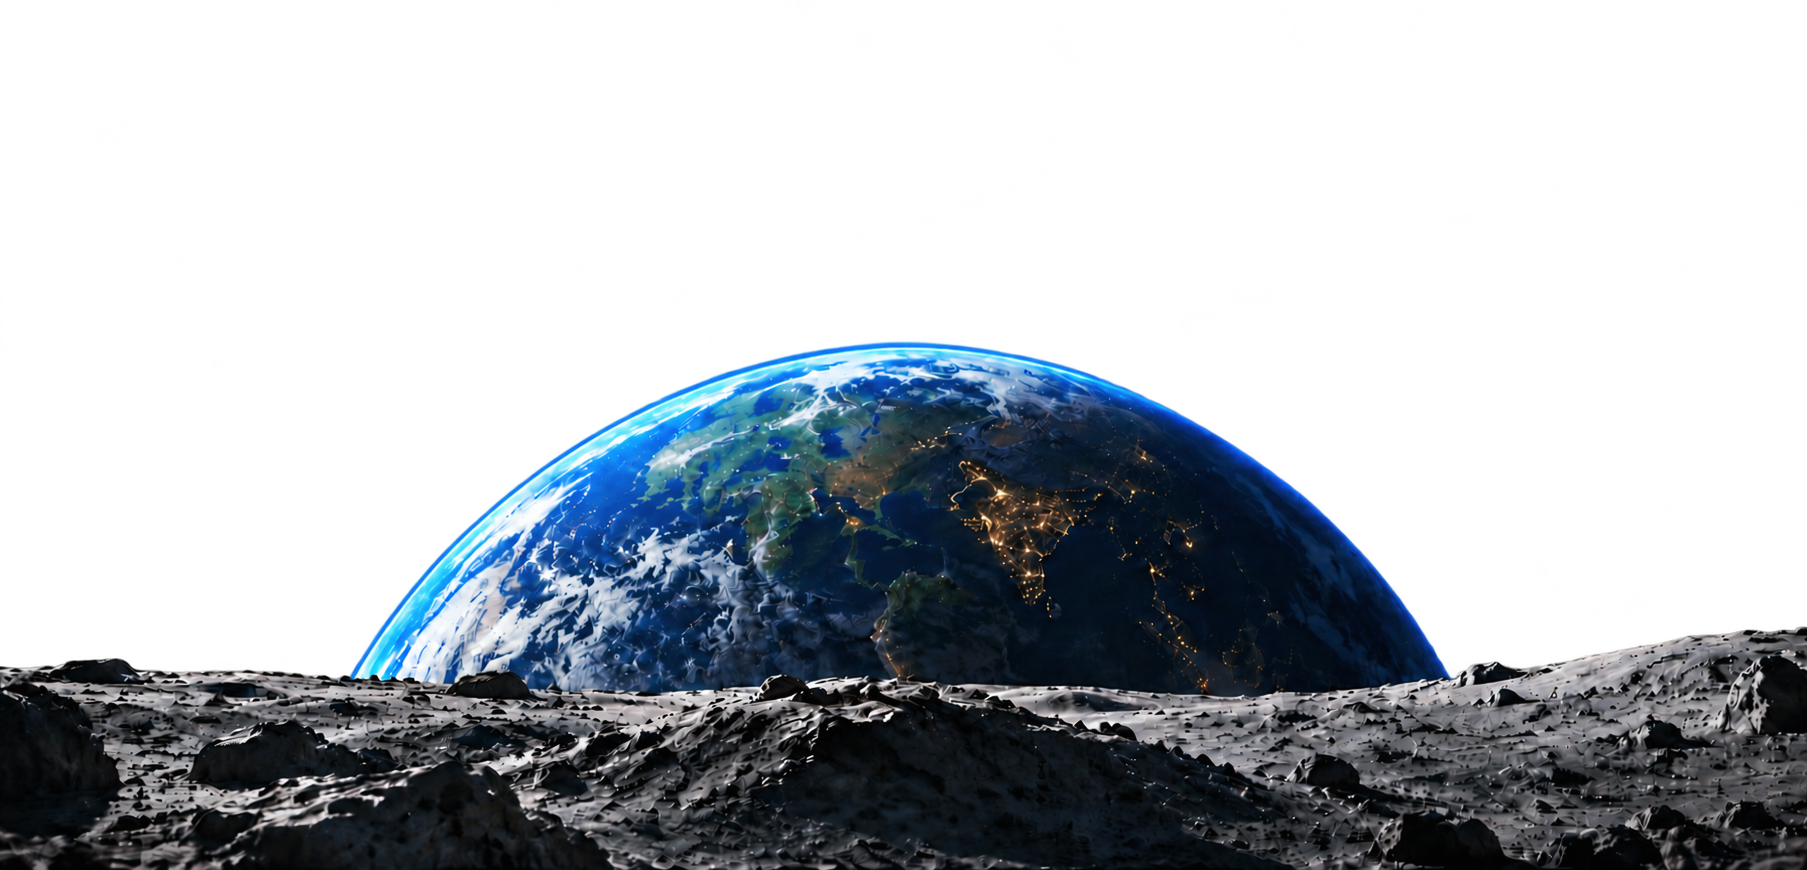
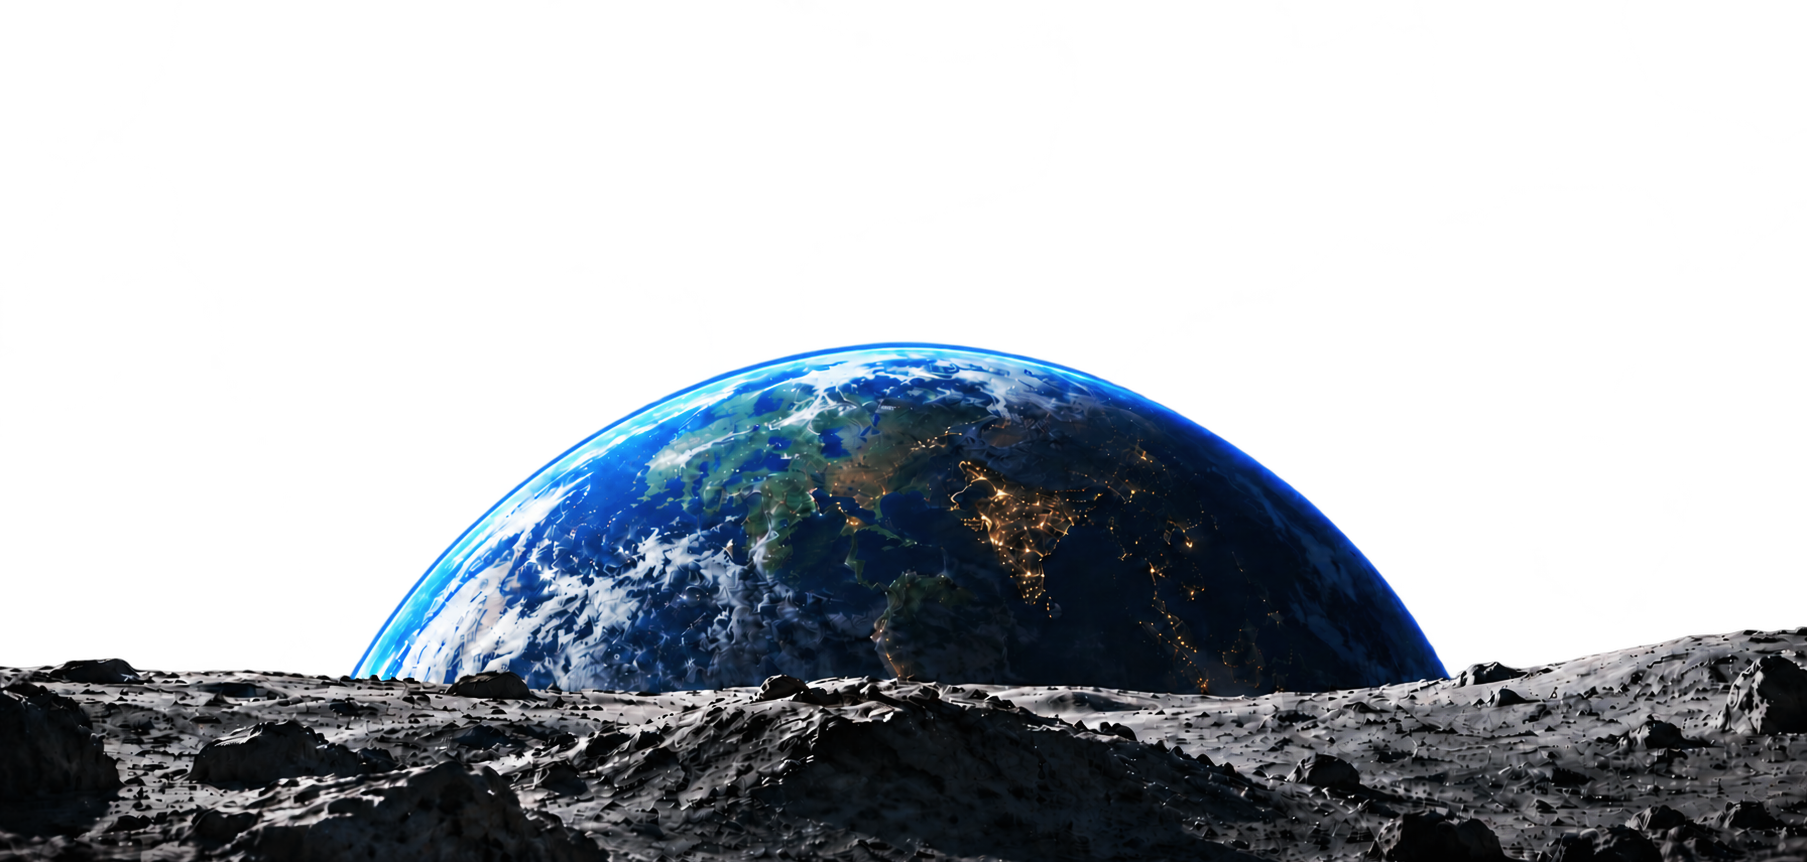
Iteratively recalibrated deliverable

Changed region(s): [[0.0, 0.3921, 1.0, 1.0], [0.6198, 0.9954, 0.6508, 1.0], [0.6198, 0.6937, 0.6508, 0.7239]]

diff --git a/frontend/src/app/page.tsx b/frontend/src/app/page.tsx
@@ -238,39 +238,6 @@ export default function LiveMonitoringPage() {
   return (
     <div className="flex flex-col gap-6 animate-in fade-in duration-500">
       
-      {/* Simulation / Selected Cyclone Banner */}
-      {activeSystem && (
-        <div className="p-3.5 px-4 rounded-xl bg-emerald-500/10 border border-emerald-500/30 flex items-center justify-between text-xs text-emerald-200 shadow-md">
-          <div className="flex items-center gap-2.5">
-            <span className="w-2 h-2 rounded-full bg-emerald-400 animate-ping" />
-            <span className="font-semibold text-emerald-300 uppercase tracking-wider text-[11px]">Active Focus:</span>
-            <span>Displaying <strong>Cyclone {activeSystem.name}</strong> ({activeSystem.id}) • Synced across all tabs.</span>
-          </div>
-          <div className="flex items-center gap-2">
-            <a
-              href={`/forecast?cyclone_id=${encodeURIComponent(activeSystem.id)}`}
-              className="flex items-center gap-1.5 px-3 py-1 rounded-lg bg-emerald-500/20 hover:bg-emerald-500/30 border border-emerald-500/30 text-emerald-200 transition-colors font-medium text-xs cursor-pointer"
-            >
-              <Activity className="w-3.5 h-3.5" />
-              Track Forecast
-            </a>
-            <button
-              onClick={() => {
-                if (typeof window !== "undefined") {
-                  window.history.replaceState({}, '', '/');
-                }
-                clearSelectedCyclone();
-                fetchActiveSystems(false);
-              }}
-              className="flex items-center gap-1.5 px-3 py-1 rounded-lg bg-white/10 hover:bg-white/15 border border-white/15 text-zinc-300 transition-colors font-medium text-xs cursor-pointer"
-            >
-              <RotateCcw className="w-3.5 h-3.5" />
-              Reset to Live
-            </button>
-          </div>
-        </div>
-      )}
-
       {/* Live Ingestion Feed Bar */}
       <div className="p-3 px-4 rounded-xl bg-surface-glass border border-border backdrop-blur-md flex flex-wrap items-center justify-between gap-3 text-xs shadow-xs">
         <div className="flex items-center gap-3">
@@ -297,28 +264,6 @@ export default function LiveMonitoringPage() {
         </div>
 
         <div className="flex items-center gap-2">
-          {activeSystem && activeSystem.id.startsWith("LIVE-IMD-") ? (
-            <button
-              onClick={handleClearLiveTest}
-              disabled={isSyncingIngest}
-              className="flex items-center gap-1.5 px-3 py-1.5 rounded-lg bg-secondary hover:bg-secondary/80 border border-border text-foreground text-xs font-semibold transition-all disabled:opacity-50 cursor-pointer hover:scale-105 active:scale-95 shadow-xs"
-              title="Clear injected live detection test and return to real calm feeds"
-            >
-              <RotateCcw className="w-3.5 h-3.5" />
-              <span>Clear Test Detection</span>
-            </button>
-          ) : (
-            <button
-              onClick={handleTestInject}
-              disabled={isSyncingIngest}
-              className="flex items-center gap-1.5 px-3 py-1.5 rounded-lg bg-amber-500/10 hover:bg-amber-500/20 border border-amber-500/30 text-amber-600 dark:text-amber-400 text-xs font-semibold transition-all disabled:opacity-50 cursor-pointer hover:scale-105 active:scale-95 shadow-xs"
-              title="Test real-time detection by injecting a simulated new live cyclone (Cyclone Shakti)"
-            >
-              <Play className="w-3.5 h-3.5 fill-amber-500 dark:fill-amber-400" />
-              <span>Test Live Detection</span>
-            </button>
-          )}
-
           <button
             onClick={handleSyncFeeds}
             disabled={isSyncingIngest}

diff --git a/frontend/src/components/Sidebar.tsx b/frontend/src/components/Sidebar.tsx
@@ -3,7 +3,7 @@
 import React from "react";
 import Link from "next/link";
 import { usePathname } from "next/navigation";
-import { Activity, UploadCloud, History, FileText, Settings, Wind, Rocket, Layers } from "lucide-react";
+import { Activity, UploadCloud, History, FileText, Settings, Wind, LogOut } from "lucide-react";
 import { clsx, type ClassValue } from "clsx";
 import { twMerge } from "tailwind-merge";
 import { CycloneLogo } from "@/components/CycloneLogo";
@@ -14,7 +14,6 @@ function cn(...inputs: ClassValue[]) {
 
 const navItems = [
   { name: "Live Monitoring", href: "/", icon: Activity },
-  { name: "Landing Page", href: "/landing-parallax", icon: Rocket },
   { name: "Classification", href: "/classification", icon: UploadCloud },
   { name: "Historical Archive", href: "/archive", icon: History },
   { name: "Track Forecast", href: "/forecast", icon: Wind },
@@ -36,7 +35,7 @@ export function Sidebar() {
         </span>
       </Link>
 
-      <nav className="flex-1 px-4 py-6 space-y-1 overflow-y-auto scrollbar-hide">
+      <nav className="flex-1 px-4 py-4 space-y-1 overflow-y-auto scrollbar-hide">
         {navItems.map((item) => {
           const isActive = pathname === item.href;
           const Icon = item.icon;
@@ -64,10 +63,42 @@ export function Sidebar() {
         })}
       </nav>
 
-      <div className="p-4 border-t border-border">
-        <div className="glass-card p-4 flex flex-col gap-1.5">
-          <p className="text-xs font-semibold text-slate-800 dark:text-zinc-300 uppercase tracking-wider">MoES Prototype</p>
-          <p className="text-xs text-slate-600 dark:text-muted-foreground font-medium">Version 1.0 - SIH26070</p>
+      {/* Officer Profile & Logout Bottom Bar (directs to landing page) */}
+      <div className="p-3 border-t border-border mt-auto">
+        <div className="flex items-center justify-between p-2 rounded-xl bg-slate-900/[0.03] dark:bg-white/[0.03] hover:bg-slate-900/[0.06] dark:hover:bg-white/[0.06] transition-colors">
+          <div className="flex items-center gap-3 min-w-0">
+            <div className="w-9 h-9 rounded-full bg-gradient-to-tr from-indigo-600 to-violet-500 text-white font-bold text-xs flex items-center justify-center shadow-xs shrink-0 ring-2 ring-indigo-500/20">
+              OF
+            </div>
+            <div className="flex flex-col min-w-0">
+              <span className="text-xs sm:text-sm font-bold text-slate-900 dark:text-white truncate leading-tight">
+                Officer
+              </span>
+              <span className="text-[10px] font-semibold text-slate-500 dark:text-zinc-400 uppercase tracking-wider truncate mt-0.5">
+                INVESTIGATOR
+              </span>
+            </div>
+          </div>
+
+          <div className="flex items-center gap-1 shrink-0 ml-2">
+            <Link
+              href="/settings"
+              className="p-1.5 rounded-lg text-slate-500 hover:text-slate-900 dark:text-zinc-400 dark:hover:text-white hover:bg-slate-900/10 dark:hover:bg-white/10 transition-colors"
+              title="Settings"
+              aria-label="Settings"
+            >
+              <Settings className="w-4 h-4" />
+            </Link>
+            
+            <Link
+              href="/landing-parallax"
+              className="p-1.5 rounded-lg text-slate-500 hover:text-rose-600 dark:text-zinc-400 dark:hover:text-rose-400 hover:bg-rose-500/10 transition-colors"
+              title="Logout to Landing Page"
+              aria-label="Logout to Landing Page"
+            >
+              <LogOut className="w-4 h-4" />
+            </Link>
+          </div>
         </div>
       </div>
     </aside>

diff --git a/frontend/src/components/landing/Navbar.tsx b/frontend/src/components/landing/Navbar.tsx
@@ -46,12 +46,12 @@ export function Navbar() {
             : "bg-transparent border-b border-transparent"
           }`}
       >
-        <div className="max-w-[1440px] mx-auto px-6 h-full flex items-center justify-between">
+        <div className="max-w-[1440px] mx-auto px-6 h-full flex items-center justify-between gap-6 xl:gap-10">
 
           {/* Logo & Meteorological Wordmark */}
-          <Link href="/" className="flex items-center gap-3 group">
+          <Link href="/" className="flex items-center gap-3 group shrink-0">
             <div className="relative flex items-center justify-center">
-              <CycloneLogo size={30} className="group-hover:rotate-45 transition-transform duration-500" />
+              <CycloneLogo size={30} />
             </div>
             <div className="flex flex-col">
               <span className={`font-heading font-extrabold text-xl tracking-tight leading-none transition-colors ${isScrolledPast
@@ -67,15 +67,15 @@ export function Navbar() {
             </div>
           </Link>
 
-          {/* Center Nav Links */}
-          <nav className="hidden lg:flex items-center gap-2">
+          {/* Center Nav Links - Proportionately balanced between logo and action buttons */}
+          <nav className="hidden lg:flex items-center justify-center gap-1 xl:gap-2 flex-1 px-4">
             {NAV_ITEMS.map((item) => (
               <Link
                 key={item.name}
                 href={item.href}
                 onMouseEnter={() => setActiveItem(item.name)}
                 onMouseLeave={() => setActiveItem(null)}
-                className={`relative px-4 py-2 text-xs font-semibold transition-colors rounded-full ${isScrolledPast
+                className={`relative px-3.5 py-1.5 text-xs font-semibold tracking-wide transition-colors rounded-full whitespace-nowrap ${isScrolledPast
                     ? "text-text-muted hover:text-text-primary"
                     : "text-slate-300 hover:text-white"
                   }`}
@@ -89,7 +89,7 @@ export function Navbar() {
           </nav>
 
           {/* Right Action Buttons */}
-          <div className="hidden md:flex items-center gap-3">
+          <div className="hidden md:flex items-center gap-3 shrink-0">
             {/* Ask CycloNet AI Lime-Green Button matching Dashboard */}
             <button
               onClick={() => {
@@ -104,7 +104,7 @@ export function Navbar() {
               aria-label="Ask CycloNet AI"
             >
               <div className="relative flex items-center justify-center shrink-0">
-                <CycloneLogo size={18} className="group-hover:rotate-45 transition-transform duration-500" />
+                <CycloneLogo size={18} />
               </div>
               <span>Ask CycloNet AI</span>
             </button>

diff --git a/frontend/src/components/Header.tsx b/frontend/src/components/Header.tsx
@@ -61,7 +61,7 @@ export function Header() {
           aria-label="Ask CycloNet AI"
         >
           <div className="relative flex items-center justify-center shrink-0">
-            <CycloneLogo size={20} className="group-hover:rotate-45 transition-transform duration-500" />
+            <CycloneLogo size={20} />
           </div>
           <span>Ask CycloNet AI</span>
         </button>
@@ -79,9 +79,14 @@ export function Header() {
           )}
         </button>
         
-        <div className="h-8 w-8 rounded-full bg-slate-200 dark:bg-zinc-800 border border-slate-300 dark:border-zinc-700 flex items-center justify-center">
-          <span className="text-xs font-bold text-slate-700 dark:text-zinc-200">FA</span>
-        </div>
+        <a
+          href="/settings"
+          className="h-8 w-8 rounded-full bg-gradient-to-tr from-indigo-600 to-violet-500 text-white flex items-center justify-center font-bold text-xs shadow-xs ring-1 ring-indigo-500/20 hover:scale-105 transition-transform"
+          title="Officer Profile (Investigator)"
+          aria-label="Officer Profile"
+        >
+          <span>OF</span>
+        </a>
       </div>
     </header>
   );

diff --git a/frontend/src/app/globals.css b/frontend/src/app/globals.css
@@ -277,19 +277,27 @@
     radial-gradient(at 50% 100%, rgba(24, 24, 27, 0.4) 0px, transparent 70%);
 }
 
+/* Hide scrollbars completely across all browsers while retaining smooth scroll */
 ::-webkit-scrollbar {
-  width: 6px;
-  height: 6px;
-}
-::-webkit-scrollbar-track {
+  display: none;
+  width: 0px;
+  height: 0px;
   background: transparent;
 }
-::-webkit-scrollbar-thumb {
-  background: rgba(255, 255, 255, 0.15);
-  border-radius: 3px;
+
+html, body, * {
+  -ms-overflow-style: none;  /* IE and Edge */
+  scrollbar-width: none;  /* Firefox */
 }
-::-webkit-scrollbar-thumb:hover {
-  background: rgba(255, 255, 255, 0.3);
+
+.scrollbar-hide::-webkit-scrollbar {
+  display: none;
+  width: 0px;
+  height: 0px;
+}
+.scrollbar-hide {
+  -ms-overflow-style: none;
+  scrollbar-width: none;
 }
 
 /* Liquid Glass Styling (Sourced from nebula-map) */
